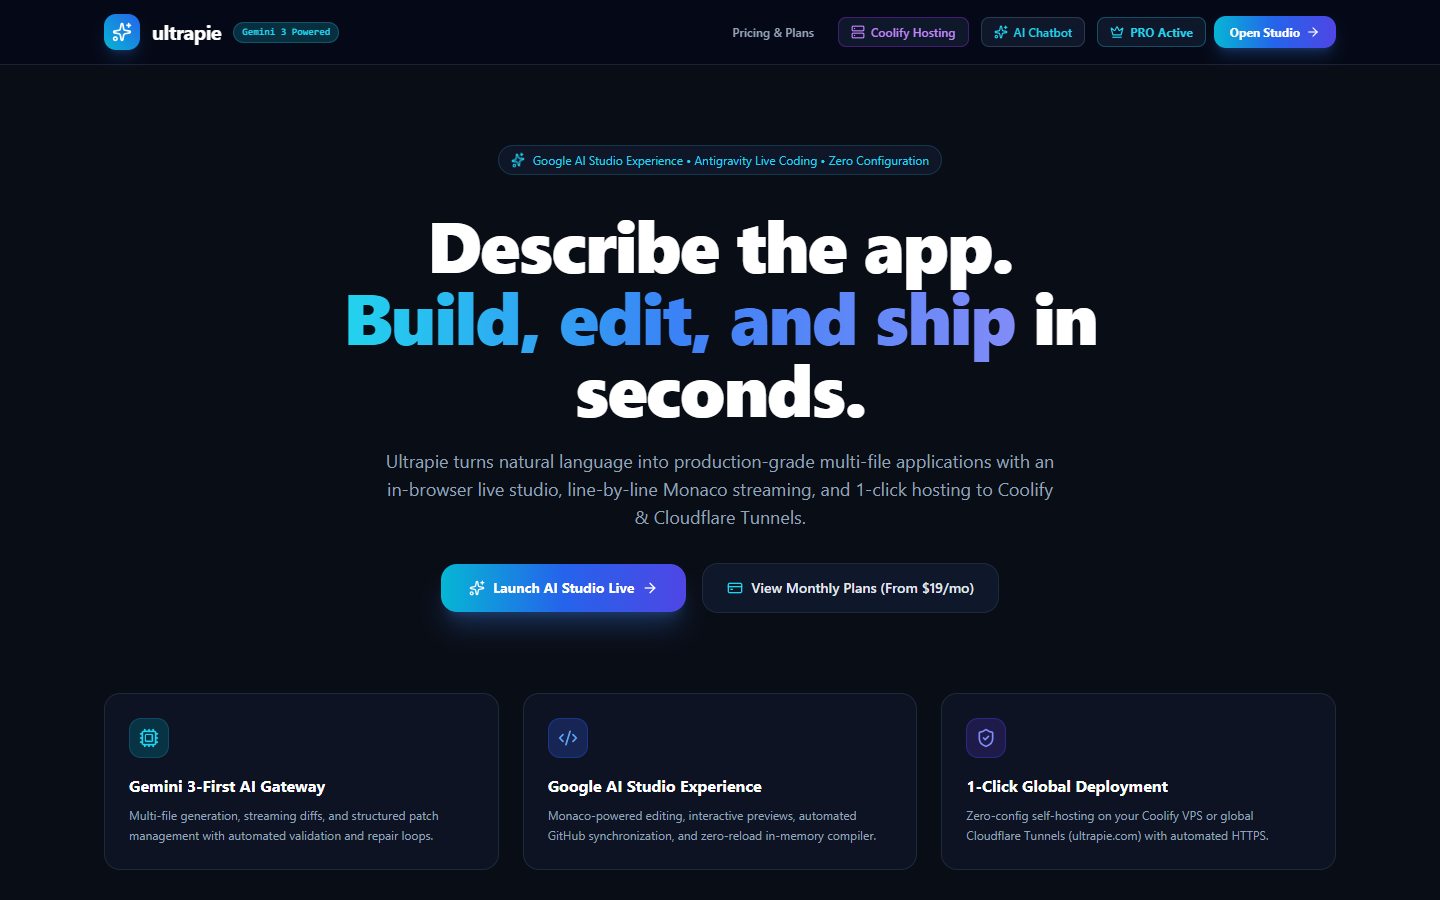
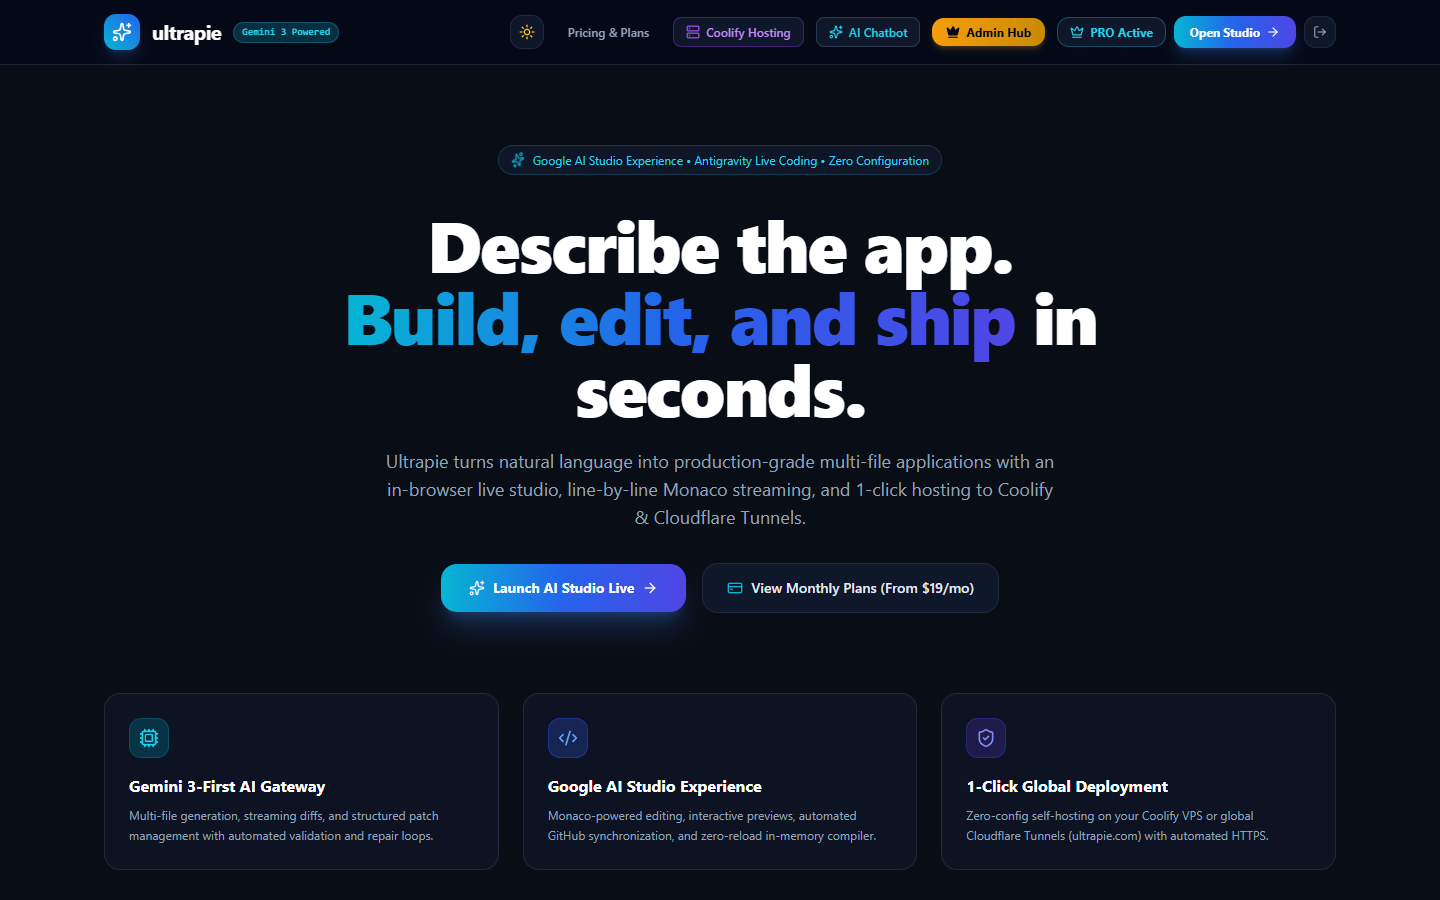
feat(storage): configure dedicated media CDN media.ultrapie.com

diff --git a/packages/storage/src/storage-service.ts b/packages/storage/src/storage-service.ts
@@ -28,8 +28,15 @@ export class StorageService {
   private cdnBaseUrl: string;
 
   constructor(options: { signingSecret?: string; cdnBaseUrl?: string } = {}) {
-    this.signingSecret = options.signingSecret || 'ultrapie-storage-signing-secret-dev';
-    this.cdnBaseUrl = options.cdnBaseUrl || 'https://assets.ultrapie.com';
+    this.signingSecret =
+      options.signingSecret ||
+      process.env.STORAGE_SIGNING_SECRET ||
+      'ultrapie-storage-signing-secret-dev';
+    this.cdnBaseUrl =
+      options.cdnBaseUrl ||
+      process.env.NEXT_PUBLIC_CDN_URL ||
+      process.env.CDN_BASE_URL ||
+      'https://media.ultrapie.com';
   }
 
   private getCompositeKey(bucket: StorageBucketType, key: string): string {
